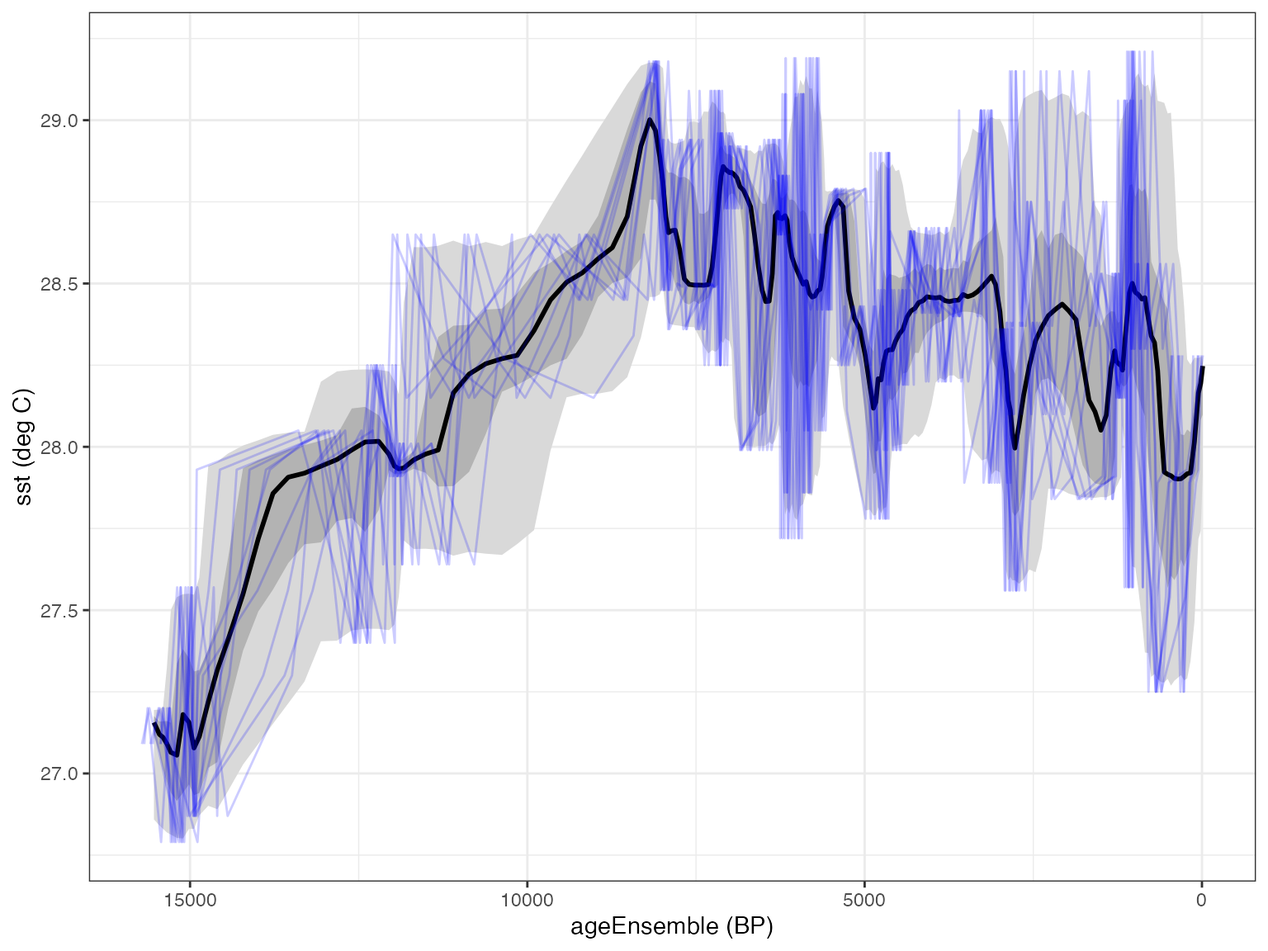
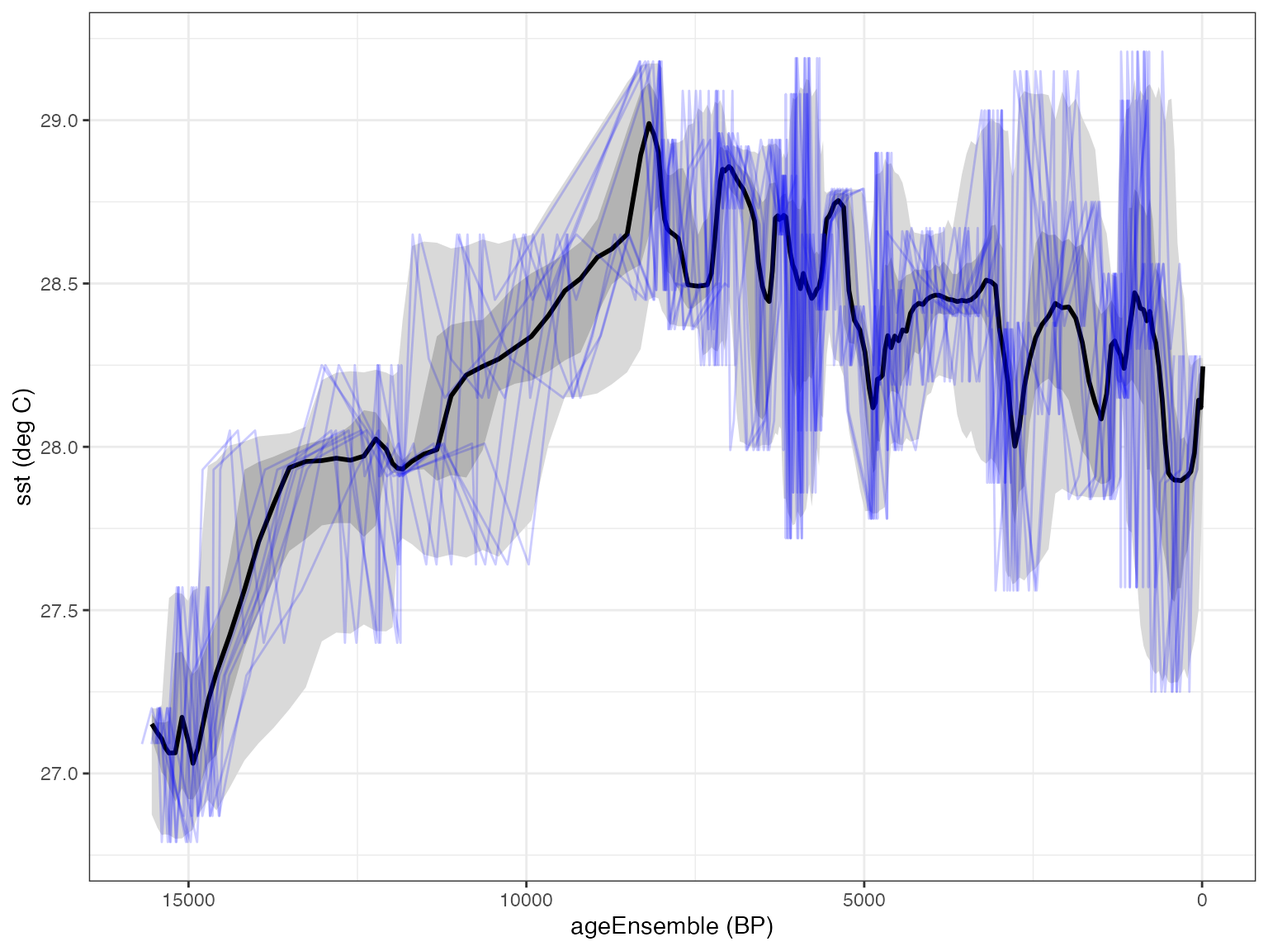
Deploying to gh-pages from @ nickmckay/GeoChronR@2f822da00a6c9b9ce1c974c1294a54782f8ac86b 🚀

Changed region(s): [[0.0938, 0.0312, 0.9688, 0.9062], [0.125, 0.9375, 0.1875, 0.9688], [0.4062, 0.9375, 0.4375, 0.9688]]

diff --git a/articles/oxCal.html b/articles/oxCal.html
@@ -121,7 +121,7 @@
       <h1 data-toc-skip>Intro to OxCal in geoChronR</h1>
                         <h4 data-toc-skip class="author">Nick McKay</h4>
             
-            <h4 data-toc-skip class="date">2024-09-10</h4>
+            <h4 data-toc-skip class="date">2024-09-11</h4>
       
       <small class="dont-index">Source: <a href="https://github.com/nickmckay/GeoChronR/blob/master/vignettes/oxCal.Rmd" class="external-link"><code>vignettes/oxCal.Rmd</code></a></small>
       <div class="hidden name"><code>oxCal.Rmd</code></div>
@@ -156,7 +156,7 @@ will tell you.</p>
 <p>OK, let’s get a LiPD file from the LinkedEarth Wiki:</p>
 <div class="sourceCode" id="cb3"><pre class="downlit sourceCode r">
 <code class="sourceCode R"><span><span class="va">L</span> <span class="op">&lt;-</span> <span class="fu"><a href="https://rdrr.io/pkg/lipdR/man/readLipd.html" class="external-link">readLipd</a></span><span class="op">(</span><span class="st">"https://lipdverse.org/geoChronR-examples/BJ8-03-70GGC.Linsley.2010.lpd"</span><span class="op">)</span></span>
-<span><span class="co">#&gt; [1] "Loading 1 datasets from /var/folders/py/lcjn3y352g1106vf1rqk521r0000gn/T//RtmpDuEjXe/BJ8-03-70GGC.Linsley.2010.lpd..."</span></span>
+<span><span class="co">#&gt; [1] "Loading 1 datasets from /var/folders/py/lcjn3y352g1106vf1rqk521r0000gn/T//Rtmp33LPOE/BJ8-03-70GGC.Linsley.2010.lpd..."</span></span>
 <span><span class="co">#&gt; [1] "reading: BJ8-03-70GGC.Linsley.2010.lpd"</span></span></code></pre></div>
 <p>Now we can run it through oxcal. First, we specify our oxcal path,
 then use the <code>runOxcal</code> function. Like the other
@@ -235,7 +235,7 @@ multiple hours).</p>
 <span><span class="co"><span style="color: #00BB00; font-weight: bold;">#&gt;  Find later with getLastVarString()</span></span></span>
 <span><span class="co"><span style="color: #00BB00; font-weight: bold;">#&gt; </span><span style="color: #00BB00;">lab.id.var = 'id', age.14c.var = 'age14c', age.14c.uncertainty.var = 'age14cuncertainty', age.var = 'calendarage', age.uncertainty.var = 'calendarageuncertainty', depth.var = 'depth', reservoir.age.14c.var = NULL, reservoir.age.14c.uncertainty.var = NULL, rejected.ages.var = NULL, </span></span></span>
 <span><span class="co"><span style="color: #00BB00;">#&gt; </span><span style="color: #0000BB;">Oxcal is now running, depending on your settings and your computer, this may take a few minutes to several hours. The model is complete when a table of model diagnostics appears.</span></span></span>
-<span><span class="co"><span style="color: #0000BB;">#&gt; </span>[1] "OxCal v4.4.4 Bronk Ramsey (2021); r:5\nAtmospheric data from Reimer et al (2020)\n405.5\n400\n393.5\n390\n380\n370\n361.5\n360\n350\n340\n330\n320.5\n320\n310\n300\n290\n280\n270\n260\n250\n241.5\n240\n230\n220\n210\n201.5\n200\n190\n180\n176\n170\n160\n150\n140\n130\n120\n110\n104\n100\n90\n80\n70\n63.5\n60\n50\n40\n30\n20\n10\n0\nWarning! Duplicate names - Atmospheric\nWarning! Duplicate names - Atmospheric\nWarning! Duplicate names - Atmospheric\nBoundary()\nAtmospheric Curve(IntCal20.14c)\nAtmospheric data from Reimer et al (2020)\nOS-45436 R_Date(12900,45)\n  68.3% probability\n    13563BC (68.3%) 13372BC\n  95.4% probability\n    13644BC (95.4%) 13310BC\nD \nAtmospheric Curve(IntCal20.14c)\nAtmospheric data from Reimer et al (2020)\nOS-65581 R_Date(12550,50)\n  68.3% probability\n    13106BC (59.4%) 12886BC\n    12728BC ( 8.9%) 12677BC\n  95.4% probability\n    13180BC (71.0%) 12847BC\n    12774BC (24.5%) 12560BC\nD \nD \nD \nAtmospheric Curve(IntCal20.14c)\nAtmospheric data from Reimer et al (2020)\nOS-60748 R_Date(10250,40)\n  68.3% probability\n    10049BC (58.3%) 9922BC\n    9912BC ( 9.9%) 9884BC\n  95.4% probability\n    10480BC ( 2.0%) 10450BC\n    10217BC ( 0.4%) 10206BC\n    10192BC ( 0.6%) 10176BC\n    10154BC (91.3%) 9864BC\n    9832BC ( 1.0%) 9811BC\nD \nD \nD \nD \nAtmospheric Curve(IntCal20.14c)\nAtmospheric data from Reimer et al (2020)\nOS-60737 R_Date(7190,45)\n  68.3% probability\n    6076BC (68.3%) 6010BC\n  95.4% probability\n    6217BC (10.2%) 6139BC\n    6096BC (83.9%) 5982BC\n    5940BC ( 1.3%) 5928BC\nD \nD \nD \nD \nAtmospheric Curve(IntCal20.14c)\nAtmospheric data from Reimer et al (2020)\nOS-54154 R_Date(6160,60)\n  68.3% probability\n    5208BC (68.3%) 5040BC\n  95.4% probability\n    5298BC ( 4.5%) 5258BC\n    5221BC (91.0%) 4941BC\nD \nD \nD \nAtmospheric Curve(IntCal20.14c)\nAtmospheric data from Reimer et al (2020)\nOS-60750 R_Date(5410,35)\n  68.3% probability\n    4330BC (68.3%) 4249BC\n  95.4% probability\n    4346BC (85.2%) 4228BC\n    4196BC ( 7.7%) 4166BC\n    4094BC ( 2.5%) 4070BC\nD \nD \nD \nD \nAtmospheric Curve(IntCal20.14c)\nAtmospheric data from Reimer et al (2020)\nOS-60747 R_Date(4850,40)\n  68.3% probability\n    3700BC ( 8.2%) 3684BC\n    3655BC (37.1%) 3626BC\n    3562BC (23.0%) 3533BC\n  95.4% probability\n    3708BC (14.5%) 3670BC\n    3660BC (81.0%) 3527BC\nD \nD \nD \nAtmospheric Curve(IntCal20.14c)\nAtmospheric data from Reimer et al (2020)\nOS-54153 R_Date(4240,50)\n  68.3% probability\n    2910BC (35.2%) 2861BC\n    2805BC (26.1%) 2754BC\n    2720BC ( 7.0%) 2703BC\n  95.4% probability\n    3004BC ( 0.8%) 2992BC\n    2928BC (43.7%) 2831BC\n    2822BC (49.6%) 2662BC\n    2652BC ( 1.4%) 2632BC\nD \nD \nD \nD \nD \nD \nD \nAtmospheric Curve(IntCal20.14c)\nAtmospheric data from Reimer et al (2020)\nOS-54152 R_Date(2750,50)\n  68.3% probability\n    964BC ( 1.5%) 961BC\n    930BC (66.8%) 826BC\n  95.4% probability\n    1006BC (95.4%) 810BC\nD \nD \nD \nD \nAtmospheric Curve(IntCal20.14c)\nAtmospheric data from Reimer et al (2020)\nOS-45435 R_Date(1310,30)\n  68.3% probability\n    664AD (29.2%) 689AD\n    698AD ( 3.2%) 701AD\n    742AD (35.9%) 772AD\n  95.4% probability\n    656AD (95.4%) 774AD\nD \nD \nD \nD \nD \nD \nsurface C_Date(1950,25)\n  68.3% probability\n    1923AD (68.3%) 1976AD\n  95.4% probability\n    1900AD (95.4%) 2000AD\nBoundary()\nMCMC_Sample()\n( P_Sequence \nP_Sequence(0.1)\n) P_Sequence \nWarning! No outlier model specified - use Outlier_Model()\nWarning! No outlier model specified - use Outlier_Model()\nWarning! No outlier model specified - use Outlier_Model()\nWarning! No outlier model specified - use Outlier_Model()\nWarning! No outlier model specified - use Outlier_Model()\nWarning! No outlier model specified - use Outlier_Model()\nWarning! No outlier model specified - use Outlier_Model()\nWarning! No outlier model specified - use Outlier_Model()\nWarning! No outlier model specified - use Outlier_Model()\nWarning! No outlier model specified - use Outlier_Model()\nWarning! No outlier model specified - use Outlier_Model()\nPosterior \n( MCMC(30000)\nOverall agreement 101.8%\nDynamic agreement 101.9%\nPosterior \n  68.3% probability\n    13540BC (68.3%) 13351BC\n  95.4% probability\n    13638BC (95.4%) 13294BC\nOS-45436 Posterior \n  68.3% probability\n    13540BC (68.3%) 13351BC\n  95.4% probability\n    13638BC (95.4%) 13294BC\n Agreement 100.2%\nD Posterior \n  68.3% probability\n    13450BC (68.3%) 13038BC\n  95.4% probability\n    13588BC (92.7%) 12852BC\n    12812BC ( 2.8%) 12716BC\nOS-65581 Posterior \n  68.3% probability\n    13117BC (63.7%) 12884BC\n    12721BC ( 4.6%) 12693BC\n  95.4% probability\n    13186BC (73.7%) 12843BC\n    12776BC (21.8%) 12566BC\n Agreement 102.2%\nD Posterior \n  68.3% probability\n    13106BC (68.3%) 12504BC\n  95.4% probability\n    13180BC (95.4%) 11516BC\nD Posterior \n  68.3% probability\n    12626BC (68.1%) 11064BC\n    11054BC ( 0.2%) 11049BC\n  95.4% probability\n    12940BC (95.4%) 10367BC\nD Posterior \n  68.3% probability\n    11087BC ( 0.1%) 11085BC\n    11054BC (68.2%) 9951BC\n  95.4% probability\n    12096BC (95.4%) 9893BC\nOS-60748 Posterior \n  68.3% probability\n    10050BC (68.3%) 9884BC\n  95.4% probability\n    10481BC ( 2.3%) 10448BC\n    10368BC ( 0.1%) 10364BC\n    10299BC ( 0.2%) 10292BC\n    10221BC ( 1.8%) 10170BC\n    10155BC (89.7%) 9860BC\n    9836BC ( 1.4%) 9808BC\n Agreement  99.3%\nD Posterior \n  68.3% probability\n    10098BC (68.3%) 9802BC\n  95.4% probability\n    10496BC ( 2.4%) 10396BC\n    10384BC ( 0.5%) 10348BC\n    10316BC ( 0.6%) 10275BC\n    10246BC (91.8%) 9012BC\n    9006BC ( 0.2%) 8986BC\nD Posterior \n  68.3% probability\n    9950BC (67.7%) 8482BC\n    8476BC ( 0.3%) 8466BC\n    8428BC ( 0.3%) 8420BC\n  95.4% probability\n    10066BC (95.3%) 7231BC\n    7225BC ( 0.1%) 7213BC\nD Posterior \n  68.3% probability\n    8828BC ( 0.1%) 8824BC\n    8810BC ( 0.1%) 8805BC\n    8800BC (67.9%) 6898BC\n    6890BC ( 0.1%) 6886BC\n  95.4% probability\n    9559BC ( 0.1%) 9550BC\n    9544BC (95.3%) 6342BC\nD Posterior \n  68.3% probability\n    7240BC (68.3%) 6040BC\n  95.4% probability\n    8501BC (95.4%) 6006BC\nOS-60737 Posterior \n  68.3% probability\n    6080BC (68.3%) 6000BC\n  95.4% probability\n    6220BC (15.2%) 6125BC\n    6106BC (80.2%) 5982BC\n Agreement  98.4%\nD Posterior \n  68.3% probability\n    6082BC (68.3%) 5988BC\n  95.4% probability\n    6221BC (95.4%) 5906BC\nD Posterior \n  68.3% probability\n    6046BC (68.3%) 5690BC\n  95.4% probability\n    6142BC (95.4%) 5395BC\nD Posterior \n  68.3% probability\n    5812BC (68.3%) 5338BC\n  95.4% probability\n    5986BC (95.4%) 5167BC\nD Posterior \n  68.3% probability\n    5476BC (68.3%) 5101BC\n  95.4% probability\n    5756BC (95.4%) 5009BC\nOS-54154 Posterior \n  68.3% probability\n    5208BC (68.3%) 5041BC\n  95.4% probability\n    5298BC ( 4.4%) 5256BC\n    5224BC (91.0%) 4942BC\n Agreement 101.3%\nD Posterior \n  68.3% probability\n    5111BC (68.3%) 4761BC\n  95.4% probability\n    5200BC (95.4%) 4512BC\nD Posterior \n  68.3% probability\n    4870BC (68.3%) 4446BC\n  95.4% probability\n    5051BC (95.4%) 4316BC\nD Posterior \n  68.3% probability\n    4548BC (68.3%) 4265BC\n  95.4% probability\n    4830BC (95.4%) 4184BC\nOS-60750 Posterior \n  68.3% probability\n    4330BC (68.3%) 4250BC\n  95.4% probability\n    4350BC (87.6%) 4224BC\n    4198BC ( 6.5%) 4166BC\n    4094BC ( 1.4%) 4074BC\n Agreement 103.0%\nD Posterior \n  68.3% probability\n    4332BC (68.3%) 4234BC\n  95.4% probability\n    4346BC (95.4%) 4056BC\nD Posterior \n  68.3% probability\n    4270BC (68.3%) 3989BC\n  95.4% probability\n    4316BC (95.4%) 3794BC\nD Posterior \n  68.3% probability\n    4072BC (68.3%) 3738BC\n  95.4% probability\n    4218BC (95.4%) 3632BC\nD Posterior \n  68.3% probability\n    3825BC (68.3%) 3574BC\n  95.4% probability\n    4028BC (95.4%) 3538BC\nOS-60747 Posterior \n  68.3% probability\n    3654BC (34.5%) 3626BC\n    3576BC (33.8%) 3532BC\n  95.4% probability\n    3708BC (95.4%) 3524BC\n Agreement  98.2%\nD Posterior \n  68.3% probability\n    3694BC ( 1.8%) 3686BC\n    3655BC (66.5%) 3518BC\n  95.4% probability\n    3714BC (95.4%) 3262BC\nD Posterior \n  68.3% probability\n    3534BC (68.3%) 3066BC\n  95.4% probability\n    3635BC (95.4%) 2862BC\nD Posterior \n  68.3% probability\n    3038BC (68.3%) 2754BC\n  95.4% probability\n    3331BC (95.4%) 2672BC\nOS-54153 Posterior \n  68.3% probability\n    2912BC (39.3%) 2859BC\n    2805BC (24.9%) 2756BC\n    2717BC ( 4.1%) 2706BC\n  95.4% probability\n    3008BC ( 1.5%) 2985BC\n    2932BC (93.0%) 2662BC\n    2650BC ( 1.0%) 2634BC\n Agreement 102.2%\nD Posterior \n  68.3% probability\n    2897BC (68.3%) 2600BC\n  95.4% probability\n    2954BC (95.4%) 2198BC\nD Posterior \n  68.3% probability\n    2760BC (68.3%) 2214BC\n  95.4% probability\n    2876BC (95.4%) 1808BC\nD Posterior \n  68.3% probability\n    2530BC (68.3%) 1847BC\n  95.4% probability\n    2732BC (95.4%) 1476BC\nD Posterior \n  68.3% probability\n    2220BC (68.3%) 1496BC\n  95.4% probability\n    2517BC (95.4%) 1206BC\nD Posterior \n  68.3% probability\n    1866BC (68.3%) 1186BC\n  95.4% probability\n    2241BC (95.4%) 1000BC\nD Posterior \n  68.3% probability\n    1490BC (68.3%) 957BC\n  95.4% probability\n    1912BC (95.4%) 866BC\nD Posterior \n  68.3% probability\n    1108BC (68.3%) 839BC\n  95.4% probability\n    1498BC (95.4%) 810BC\nOS-54152 Posterior \n  68.3% probability\n    931BC (68.3%) 821BC\n  95.4% probability\n    1011BC (95.4%) 805BC\n Agreement 101.6%\nD Posterior \n  68.3% probability\n    972BC (68.3%) 689BC\n  95.4% probability\n    1024BC (95.4%) 205BC\nD Posterior \n  68.3% probability\n    814BC (68.3%) 112BC\n  95.4% probability\n    904BC (95.4%) 350AD\nD Posterior \n  68.3% probability\n    232BC (68.3%) 525AD\n  95.4% probability\n    616BC (95.4%) 672AD\nD Posterior \n  68.3% probability\n    384AD (68.3%) 760AD\n  95.4% probability\n    141BC (95.4%) 774AD\nOS-45435 Posterior \n  68.3% probability\n    662AD (38.6%) 700AD\n    742AD (29.6%) 770AD\n  95.4% probability\n    654AD (95.4%) 774AD\n Agreement  98.9%\nD Posterior \n  68.3% probability\n    664AD (68.3%) 796AD\n  95.4% probability\n    650AD (95.4%) 1042AD\nD Posterior \n  68.3% probability\n    736AD (68.3%) 1084AD\n  95.4% probability\n    678AD (95.4%) 1365AD\nD Posterior \n  68.3% probability\n    893AD (68.3%) 1358AD\n  95.4% probability\n    770AD (95.4%) 1611AD\nD Posterior \n  68.3% probability\n    1132AD (68.3%) 1624AD\n  95.4% probability\n    926AD (95.4%) 1800AD\nD Posterior \n  68.3% probability\n    1410AD (68.3%) 1842AD\n  95.4% probability\n    1136AD (95.4%) 1927AD\nD Posterior \n  68.3% probability\n    1690AD (68.3%) 1958AD\n  95.4% probability\n    1386AD (95.4%) 1989AD\nsurface Posterior \n  68.3% probability\n    1924AD (68.3%) 1977AD\n  95.4% probability\n    1894AD (95.4%) 2008AD\n Agreement 100.7%\nPosterior \n  68.3% probability\n    1924AD (68.3%) 1977AD\n  95.4% probability\n    1894AD (95.4%) 2008AD\n) MCMC(2016000)\n"</span></span>
+<span><span class="co"><span style="color: #0000BB;">#&gt; </span>[1] "OxCal v4.4.4 Bronk Ramsey (2021); r:5\nAtmospheric data from Reimer et al (2020)\n405.5\n400\n393.5\n390\n380\n370\n361.5\n360\n350\n340\n330\n320.5\n320\n310\n300\n290\n280\n270\n260\n250\n241.5\n240\n230\n220\n210\n201.5\n200\n190\n180\n176\n170\n160\n150\n140\n130\n120\n110\n104\n100\n90\n80\n70\n63.5\n60\n50\n40\n30\n20\n10\n0\nWarning! Duplicate names - Atmospheric\nWarning! Duplicate names - Atmospheric\nWarning! Duplicate names - Atmospheric\nBoundary()\nAtmospheric Curve(IntCal20.14c)\nAtmospheric data from Reimer et al (2020)\nOS-45436 R_Date(12900,45)\n  68.3% probability\n    13563BC (68.3%) 13372BC\n  95.4% probability\n    13644BC (95.4%) 13310BC\nD \nAtmospheric Curve(IntCal20.14c)\nAtmospheric data from Reimer et al (2020)\nOS-65581 R_Date(12550,50)\n  68.3% probability\n    13106BC (59.4%) 12886BC\n    12728BC ( 8.9%) 12677BC\n  95.4% probability\n    13180BC (71.0%) 12847BC\n    12774BC (24.5%) 12560BC\nD \nD \nD \nAtmospheric Curve(IntCal20.14c)\nAtmospheric data from Reimer et al (2020)\nOS-60748 R_Date(10250,40)\n  68.3% probability\n    10049BC (58.3%) 9922BC\n    9912BC ( 9.9%) 9884BC\n  95.4% probability\n    10480BC ( 2.0%) 10450BC\n    10217BC ( 0.4%) 10206BC\n    10192BC ( 0.6%) 10176BC\n    10154BC (91.3%) 9864BC\n    9832BC ( 1.0%) 9811BC\nD \nD \nD \nD \nAtmospheric Curve(IntCal20.14c)\nAtmospheric data from Reimer et al (2020)\nOS-60737 R_Date(7190,45)\n  68.3% probability\n    6076BC (68.3%) 6010BC\n  95.4% probability\n    6217BC (10.2%) 6139BC\n    6096BC (83.9%) 5982BC\n    5940BC ( 1.3%) 5928BC\nD \nD \nD \nD \nAtmospheric Curve(IntCal20.14c)\nAtmospheric data from Reimer et al (2020)\nOS-54154 R_Date(6160,60)\n  68.3% probability\n    5208BC (68.3%) 5040BC\n  95.4% probability\n    5298BC ( 4.5%) 5258BC\n    5221BC (91.0%) 4941BC\nD \nD \nD \nAtmospheric Curve(IntCal20.14c)\nAtmospheric data from Reimer et al (2020)\nOS-60750 R_Date(5410,35)\n  68.3% probability\n    4330BC (68.3%) 4249BC\n  95.4% probability\n    4346BC (85.2%) 4228BC\n    4196BC ( 7.7%) 4166BC\n    4094BC ( 2.5%) 4070BC\nD \nD \nD \nD \nAtmospheric Curve(IntCal20.14c)\nAtmospheric data from Reimer et al (2020)\nOS-60747 R_Date(4850,40)\n  68.3% probability\n    3700BC ( 8.2%) 3684BC\n    3655BC (37.1%) 3626BC\n    3562BC (23.0%) 3533BC\n  95.4% probability\n    3708BC (14.5%) 3670BC\n    3660BC (81.0%) 3527BC\nD \nD \nD \nAtmospheric Curve(IntCal20.14c)\nAtmospheric data from Reimer et al (2020)\nOS-54153 R_Date(4240,50)\n  68.3% probability\n    2910BC (35.2%) 2861BC\n    2805BC (26.1%) 2754BC\n    2720BC ( 7.0%) 2703BC\n  95.4% probability\n    3004BC ( 0.8%) 2992BC\n    2928BC (43.7%) 2831BC\n    2822BC (49.6%) 2662BC\n    2652BC ( 1.4%) 2632BC\nD \nD \nD \nD \nD \nD \nD \nAtmospheric Curve(IntCal20.14c)\nAtmospheric data from Reimer et al (2020)\nOS-54152 R_Date(2750,50)\n  68.3% probability\n    964BC ( 1.5%) 961BC\n    930BC (66.8%) 826BC\n  95.4% probability\n    1006BC (95.4%) 810BC\nD \nD \nD \nD \nAtmospheric Curve(IntCal20.14c)\nAtmospheric data from Reimer et al (2020)\nOS-45435 R_Date(1310,30)\n  68.3% probability\n    664AD (29.2%) 689AD\n    698AD ( 3.2%) 701AD\n    742AD (35.9%) 772AD\n  95.4% probability\n    656AD (95.4%) 774AD\nD \nD \nD \nD \nD \nD \nsurface C_Date(1950,25)\n  68.3% probability\n    1923AD (68.3%) 1976AD\n  95.4% probability\n    1900AD (95.4%) 2000AD\nBoundary()\nMCMC_Sample()\n( P_Sequence \nP_Sequence(0.1)\n) P_Sequence \nWarning! No outlier model specified - use Outlier_Model()\nWarning! No outlier model specified - use Outlier_Model()\nWarning! No outlier model specified - use Outlier_Model()\nWarning! No outlier model specified - use Outlier_Model()\nWarning! No outlier model specified - use Outlier_Model()\nWarning! No outlier model specified - use Outlier_Model()\nWarning! No outlier model specified - use Outlier_Model()\nWarning! No outlier model specified - use Outlier_Model()\nWarning! No outlier model specified - use Outlier_Model()\nWarning! No outlier model specified - use Outlier_Model()\nWarning! No outlier model specified - use Outlier_Model()\nPosterior \n( MCMC(30000)\nOverall agreement 101.5%\nDynamic agreement 101.6%\nPosterior \n  68.3% probability\n    13541BC (68.3%) 13352BC\n  95.4% probability\n    13640BC (95.4%) 13292BC\nOS-45436 Posterior \n  68.3% probability\n    13541BC (68.3%) 13352BC\n  95.4% probability\n    13640BC (95.4%) 13292BC\n Agreement 100.0%\nD Posterior \n  68.3% probability\n    13452BC (68.3%) 13038BC\n  95.4% probability\n    13591BC (92.7%) 12849BC\n    12802BC ( 2.8%) 12712BC\nOS-65581 Posterior \n  68.3% probability\n    13118BC (63.6%) 12884BC\n    12721BC ( 4.7%) 12692BC\n  95.4% probability\n    13188BC (73.4%) 12843BC\n    12776BC (22.0%) 12566BC\n Agreement 101.8%\nD Posterior \n  68.3% probability\n    13101BC (68.3%) 12496BC\n  95.4% probability\n    13186BC (95.4%) 11522BC\nD Posterior \n  68.3% probability\n    12630BC (67.8%) 11092BC\n    11074BC ( 0.5%) 11062BC\n  95.4% probability\n    12934BC (95.4%) 10356BC\nD Posterior \n  68.3% probability\n    11050BC (68.3%) 9952BC\n  95.4% probability\n    12098BC (95.4%) 9892BC\nOS-60748 Posterior \n  68.3% probability\n    10049BC (58.5%) 9921BC\n    9912BC ( 9.8%) 9884BC\n  95.4% probability\n    10480BC ( 1.8%) 10450BC\n    10368BC ( 0.2%) 10364BC\n    10219BC ( 1.7%) 10172BC\n    10154BC (90.5%) 9861BC\n    9836BC ( 1.3%) 9808BC\n Agreement 100.0%\nD Posterior \n  68.3% probability\n    10096BC (68.3%) 9807BC\n  95.4% probability\n    10488BC ( 1.8%) 10395BC\n    10378BC ( 0.5%) 10346BC\n    10310BC ( 0.4%) 10275BC\n    10244BC (92.8%) 9012BC\nD Posterior \n  68.3% probability\n    9946BC (68.3%) 8482BC\n  95.4% probability\n    10065BC (95.4%) 7225BC\nD Posterior \n  68.3% probability\n    8824BC ( 0.2%) 8818BC\n    8814BC (68.1%) 6896BC\n  95.4% probability\n    9542BC (95.4%) 6338BC\nD Posterior \n  68.3% probability\n    7252BC ( 0.3%) 7244BC\n    7236BC (68.0%) 6038BC\n  95.4% probability\n    8489BC (95.4%) 6005BC\nOS-60737 Posterior \n  68.3% probability\n    6080BC (68.3%) 6002BC\n  95.4% probability\n    6220BC (15.2%) 6124BC\n    6101BC (79.6%) 5982BC\n    5938BC ( 0.6%) 5930BC\n Agreement  97.6%\nD Posterior \n  68.3% probability\n    6082BC (68.3%) 5986BC\n  95.4% probability\n    6221BC (95.4%) 5888BC\nD Posterior \n  68.3% probability\n    6046BC (68.3%) 5687BC\n  95.4% probability\n    6142BC (95.4%) 5391BC\nD Posterior \n  68.3% probability\n    5812BC (68.3%) 5339BC\n  95.4% probability\n    5985BC (95.4%) 5164BC\nD Posterior \n  68.3% probability\n    5474BC (68.3%) 5100BC\n  95.4% probability\n    5756BC (95.4%) 5008BC\nOS-54154 Posterior \n  68.3% probability\n    5208BC (68.3%) 5041BC\n  95.4% probability\n    5298BC ( 4.4%) 5256BC\n    5224BC (91.0%) 4942BC\n Agreement 101.3%\nD Posterior \n  68.3% probability\n    5114BC (68.3%) 4760BC\n  95.4% probability\n    5200BC (95.4%) 4510BC\nD Posterior \n  68.3% probability\n    4870BC (68.3%) 4446BC\n  95.4% probability\n    5051BC (95.4%) 4316BC\nD Posterior \n  68.3% probability\n    4548BC (68.3%) 4266BC\n  95.4% probability\n    4830BC (95.4%) 4183BC\nOS-60750 Posterior \n  68.3% probability\n    4330BC (68.3%) 4251BC\n  95.4% probability\n    4350BC (86.8%) 4224BC\n    4200BC ( 6.9%) 4164BC\n    4122BC ( 0.2%) 4118BC\n    4094BC ( 1.5%) 4072BC\n Agreement 102.6%\nD Posterior \n  68.3% probability\n    4332BC (68.3%) 4236BC\n  95.4% probability\n    4346BC (95.4%) 4060BC\nD Posterior \n  68.3% probability\n    4271BC (68.3%) 3990BC\n  95.4% probability\n    4317BC (95.4%) 3796BC\nD Posterior \n  68.3% probability\n    4072BC (68.3%) 3738BC\n  95.4% probability\n    4218BC (95.4%) 3634BC\nD Posterior \n  68.3% probability\n    3826BC (68.3%) 3575BC\n  95.4% probability\n    4028BC (95.4%) 3538BC\nOS-60747 Posterior \n  68.3% probability\n    3696BC ( 2.2%) 3691BC\n    3654BC (34.0%) 3626BC\n    3576BC (32.0%) 3532BC\n  95.4% probability\n    3708BC (95.4%) 3525BC\n Agreement  98.3%\nD Posterior \n  68.3% probability\n    3696BC ( 3.3%) 3684BC\n    3655BC (31.6%) 3600BC\n    3586BC (33.4%) 3521BC\n  95.4% probability\n    3749BC ( 0.2%) 3740BC\n    3714BC (95.2%) 3277BC\nD Posterior \n  68.3% probability\n    3538BC (68.3%) 3072BC\n  95.4% probability\n    3636BC (95.4%) 2866BC\nD Posterior \n  68.3% probability\n    3037BC (68.3%) 2755BC\n  95.4% probability\n    3336BC (95.4%) 2672BC\nOS-54153 Posterior \n  68.3% probability\n    2912BC (39.6%) 2858BC\n    2805BC (24.2%) 2757BC\n    2718BC ( 4.4%) 2706BC\n  95.4% probability\n    3008BC ( 1.6%) 2984BC\n    2935BC (92.9%) 2662BC\n    2650BC ( 1.0%) 2634BC\n Agreement 102.4%\nD Posterior \n  68.3% probability\n    2898BC (68.3%) 2600BC\n  95.4% probability\n    2958BC (95.4%) 2196BC\nD Posterior \n  68.3% probability\n    2762BC (68.3%) 2218BC\n  95.4% probability\n    2876BC (95.4%) 1803BC\nD Posterior \n  68.3% probability\n    2528BC (68.3%) 1844BC\n  95.4% probability\n    2730BC (95.4%) 1473BC\nD Posterior \n  68.3% probability\n    2221BC (68.3%) 1500BC\n  95.4% probability\n    2517BC (95.4%) 1206BC\nD Posterior \n  68.3% probability\n    1865BC (68.3%) 1188BC\n  95.4% probability\n    2239BC (95.4%) 996BC\nD Posterior \n  68.3% probability\n    1486BC (68.3%) 956BC\n  95.4% probability\n    1908BC (95.4%) 867BC\nD Posterior \n  68.3% probability\n    1107BC (68.3%) 839BC\n  95.4% probability\n    1488BC (95.4%) 810BC\nOS-54152 Posterior \n  68.3% probability\n    930BC (68.3%) 820BC\n  95.4% probability\n    1010BC (95.4%) 806BC\n Agreement 101.8%\nD Posterior \n  68.3% probability\n    972BC (68.3%) 691BC\n  95.4% probability\n    1036BC ( 0.1%) 1031BC\n    1020BC (95.4%) 205BC\nD Posterior \n  68.3% probability\n    812BC (67.8%) 122BC\n    117BC ( 0.5%) 111BC\n  95.4% probability\n    906BC (95.4%) 346AD\nD Posterior \n  68.3% probability\n    232BC (68.3%) 526AD\n  95.4% probability\n    615BC (95.4%) 672AD\nD Posterior \n  68.3% probability\n    386AD (68.3%) 760AD\n  95.4% probability\n    142BC (95.4%) 773AD\nOS-45435 Posterior \n  68.3% probability\n    662AD (39.0%) 700AD\n    742AD (29.3%) 770AD\n  95.4% probability\n    653AD (95.4%) 774AD\n Agreement  98.6%\nD Posterior \n  68.3% probability\n    664AD (68.3%) 798AD\n  95.4% probability\n    650AD (95.4%) 1058AD\nD Posterior \n  68.3% probability\n    736AD (68.3%) 1084AD\n  95.4% probability\n    677AD (95.4%) 1370AD\nD Posterior \n  68.3% probability\n    894AD (68.3%) 1358AD\n  95.4% probability\n    770AD (95.4%) 1611AD\nD Posterior \n  68.3% probability\n    1132AD (68.3%) 1624AD\n  95.4% probability\n    926AD (95.4%) 1801AD\nD Posterior \n  68.3% probability\n    1411AD (68.3%) 1841AD\n  95.4% probability\n    1136AD (95.4%) 1928AD\nD Posterior \n  68.3% probability\n    1690AD (68.3%) 1958AD\n  95.4% probability\n    1386AD (95.4%) 1988AD\nsurface Posterior \n  68.3% probability\n    1924AD (68.3%) 1977AD\n  95.4% probability\n    1893AD (95.4%) 2008AD\n Agreement 100.5%\nPosterior \n  68.3% probability\n    1924AD (68.3%) 1977AD\n  95.4% probability\n    1893AD (95.4%) 2008AD\n) MCMC(4992000)\n"</span></span>
 <span><span class="co">#&gt; <span style="color: #BB0000; font-weight: bold;">It looks like youre MCMC_Sample parameters aren't large enough.</span></span></span></code></pre></div>
 <p>Great. After OxCal finishes running successfully, it will return this
 table showing some diagnostics of the MCMC statistics for the dated

diff --git a/articles/Introduction.html b/articles/Introduction.html
@@ -121,7 +121,7 @@
       <h1 data-toc-skip>Introduction to geoChronR</h1>
                         <h4 data-toc-skip class="author">Nick McKay</h4>
             
-            <h4 data-toc-skip class="date">2024-09-10</h4>
+            <h4 data-toc-skip class="date">2024-09-11</h4>
       
       <small class="dont-index">Source: <a href="https://github.com/nickmckay/GeoChronR/blob/master/vignettes/Introduction.Rmd" class="external-link"><code>vignettes/Introduction.Rmd</code></a></small>
       <div class="hidden name"><code>Introduction.Rmd</code></div>
@@ -167,7 +167,7 @@ directory), or enter the path to file or the directory that you want:
 <code>L &lt;- readLipd("~/Downloads/my.lpd")</code></p>
 <div class="sourceCode" id="cb2"><pre class="downlit sourceCode r">
 <code class="sourceCode R"><span>  <span class="va">hulu</span> <span class="op">&lt;-</span> <span class="fu">lipdR</span><span class="fu">::</span><span class="fu"><a href="https://rdrr.io/pkg/lipdR/man/readLipd.html" class="external-link">readLipd</a></span><span class="op">(</span><span class="st">"http://lipdverse.org/geoChronR-examples/Hulucave.Wang.2001.lpd"</span><span class="op">)</span></span></code></pre></div>
-<pre><code><span><span class="co">## [1] "Loading 1 datasets from /var/folders/py/lcjn3y352g1106vf1rqk521r0000gn/T//RtmpSPM46r/Hulucave.Wang.2001.lpd..."</span></span>
+<pre><code><span><span class="co">## [1] "Loading 1 datasets from /var/folders/py/lcjn3y352g1106vf1rqk521r0000gn/T//Rtmp6KNd8v/Hulucave.Wang.2001.lpd..."</span></span>
 <span><span class="co">## [1] "reading: Hulucave.Wang.2001.lpd"</span></span></code></pre>
 <p>Data from five stalagmites are stored in this file. Age model output,
 including ensemble data, can be stored in LiPD files, but we don’t have
@@ -275,7 +275,7 @@ members.</p>
 <p>Let’s compare these data to the GISP2 ice core.</p>
 <div class="sourceCode" id="cb14"><pre class="downlit sourceCode r">
 <code class="sourceCode R"><span>  <span class="va">gisp2</span> <span class="op">&lt;-</span> <span class="fu">lipdR</span><span class="fu">::</span><span class="fu"><a href="https://rdrr.io/pkg/lipdR/man/readLipd.html" class="external-link">readLipd</a></span><span class="op">(</span><span class="st">"http://lipdverse.org/geoChronR-examples/GISP2.Alley.2000.lpd"</span><span class="op">)</span></span></code></pre></div>
-<pre><code><span><span class="co">## [1] "Loading 1 datasets from /var/folders/py/lcjn3y352g1106vf1rqk521r0000gn/T//RtmpSPM46r/GISP2.Alley.2000.lpd..."</span></span>
+<pre><code><span><span class="co">## [1] "Loading 1 datasets from /var/folders/py/lcjn3y352g1106vf1rqk521r0000gn/T//Rtmp6KNd8v/GISP2.Alley.2000.lpd..."</span></span>
 <span><span class="co">## [1] "reading: GISP2.Alley.2000.lpd"</span></span></code></pre>
 </div>
 <div class="section level3">

diff --git a/articles/PCA.html b/articles/PCA.html
@@ -121,7 +121,7 @@
       <h1 data-toc-skip>Ensemble PCA</h1>
                         <h4 data-toc-skip class="author">Nick McKay</h4>
             
-            <h4 data-toc-skip class="date">2024-09-10</h4>
+            <h4 data-toc-skip class="date">2024-09-11</h4>
       
       <small class="dont-index">Source: <a href="https://github.com/nickmckay/GeoChronR/blob/master/vignettes/PCA.Rmd" class="external-link"><code>vignettes/PCA.Rmd</code></a></small>
       <div class="hidden name"><code>PCA.Rmd</code></div>
@@ -158,7 +158,7 @@ analysis. Data are from the <a href="https://www.nature.com/articles/sdata201426
 compilation, which we load here:</p>
 <div class="sourceCode" id="cb2"><pre class="downlit sourceCode r">
 <code class="sourceCode R"><span>  <span class="va">FD</span> <span class="op">&lt;-</span> <span class="fu">lipdR</span><span class="fu">::</span><span class="fu"><a href="https://rdrr.io/pkg/lipdR/man/readLipd.html" class="external-link">readLipd</a></span><span class="op">(</span><span class="st">"http://lipdverse.org/geoChronR-examples/arc2k/Arctic2k.zip"</span><span class="op">)</span> </span></code></pre></div>
-<pre><code><span><span class="co">## [1] "Loading 19 datasets from /var/folders/py/lcjn3y352g1106vf1rqk521r0000gn/T//Rtmp7QpI9r/lpdDownload..."</span></span>
+<pre><code><span><span class="co">## [1] "Loading 19 datasets from /var/folders/py/lcjn3y352g1106vf1rqk521r0000gn/T//Rtmpg7iwEF/lpdDownload..."</span></span>
 <span><span class="co">## [1] "reading: Arc-Agassiz.Vinther.2008.lpd"</span></span>
 <span><span class="co">## [1] "reading: Arc-Austfonna.Isaksson.2005.lpd"</span></span>
 <span><span class="co">## [1] "reading: Arc-CampCentury.Fisher.1969.lpd"</span></span>

diff --git a/articles/regression.html b/articles/regression.html
@@ -121,7 +121,7 @@
       <h1 data-toc-skip>Ensemble regression and calibration-in-time</h1>
                         <h4 data-toc-skip class="author">Nick McKay</h4>
             
-            <h4 data-toc-skip class="date">2024-09-10</h4>
+            <h4 data-toc-skip class="date">2024-09-11</h4>
       
       <small class="dont-index">Source: <a href="https://github.com/nickmckay/GeoChronR/blob/master/vignettes/regression.Rmd" class="external-link"><code>vignettes/regression.Rmd</code></a></small>
       <div class="hidden name"><code>regression.Rmd</code></div>
@@ -164,7 +164,7 @@ example file from the package directory. You’d like just enter the path
 as a string for typical use.</p>
 <div class="sourceCode" id="cb2"><pre class="downlit sourceCode r">
 <code class="sourceCode R"><span><span class="va">K</span> <span class="op">&lt;-</span> <span class="fu">lipdR</span><span class="fu">::</span><span class="fu"><a href="https://rdrr.io/pkg/lipdR/man/readLipd.html" class="external-link">readLipd</a></span><span class="op">(</span><span class="st">"http://lipdverse.org/geoChronR-examples/Kurupa.Boldt.2015.lpd"</span><span class="op">)</span></span></code></pre></div>
-<pre><code><span><span class="co">## [1] "Loading 1 datasets from /var/folders/py/lcjn3y352g1106vf1rqk521r0000gn/T//RtmpxaJi7m/Kurupa.Boldt.2015.lpd..."</span></span>
+<pre><code><span><span class="co">## [1] "Loading 1 datasets from /var/folders/py/lcjn3y352g1106vf1rqk521r0000gn/T//RtmpFm7SaJ/Kurupa.Boldt.2015.lpd..."</span></span>
 <span><span class="co">## [1] "reading: Kurupa.Boldt.2015.lpd"</span></span></code></pre>
 </div>
 <div class="section level3">

diff --git a/articles/AddEnsemble.html b/articles/AddEnsemble.html
@@ -168,7 +168,7 @@ would like to add it to the LiPD object.</p>
 object:</p>
 <div class="sourceCode" id="cb7"><pre class="downlit sourceCode r">
 <code class="sourceCode R"><span><span class="va">K</span> <span class="op">&lt;-</span> <span class="fu"><a href="https://rdrr.io/pkg/lipdR/man/readLipd.html" class="external-link">readLipd</a></span><span class="op">(</span><span class="st">"http://lipdverse.org/geoChronR-examples/Kurupa.Boldt.2015.lpd"</span><span class="op">)</span></span></code></pre></div>
-<pre><code><span><span class="co">## [1] "Loading 1 datasets from /var/folders/py/lcjn3y352g1106vf1rqk521r0000gn/T//RtmpkDhoTf/Kurupa.Boldt.2015.lpd..."</span></span>
+<pre><code><span><span class="co">## [1] "Loading 1 datasets from /var/folders/py/lcjn3y352g1106vf1rqk521r0000gn/T//RtmpQOB6XS/Kurupa.Boldt.2015.lpd..."</span></span>
 <span><span class="co">## [1] "reading: Kurupa.Boldt.2015.lpd"</span></span></code></pre>
 <p>And now let’s open a csv file that has the depth and age ensemble
 data</p>

diff --git a/articles/PlotTimeseriesStack.html b/articles/PlotTimeseriesStack.html
@@ -121,7 +121,7 @@
       <h1 data-toc-skip>Plot a stack of proxy timeseries</h1>
                         <h4 data-toc-skip class="author">Nick McKay</h4>
             
-            <h4 data-toc-skip class="date">2024-09-10</h4>
+            <h4 data-toc-skip class="date">2024-09-11</h4>
       
       <small class="dont-index">Source: <a href="https://github.com/nickmckay/GeoChronR/blob/master/vignettes/PlotTimeseriesStack.Rmd" class="external-link"><code>vignettes/PlotTimeseriesStack.Rmd</code></a></small>
       <div class="hidden name"><code>PlotTimeseriesStack.Rmd</code></div>

diff --git a/articles/correlation.html b/articles/correlation.html
@@ -121,7 +121,7 @@
       <h1 data-toc-skip>Ensemble Correlation</h1>
                         <h4 data-toc-skip class="author">Nick McKay</h4>
             
-            <h4 data-toc-skip class="date">2024-09-10</h4>
+            <h4 data-toc-skip class="date">2024-09-11</h4>
       
       <small class="dont-index">Source: <a href="https://github.com/nickmckay/GeoChronR/blob/master/vignettes/correlation.Rmd" class="external-link"><code>vignettes/correlation.Rmd</code></a></small>
       <div class="hidden name"><code>correlation.Rmd</code></div>

diff --git a/articles/spectral_analysis.html b/articles/spectral_analysis.html
@@ -123,7 +123,7 @@ uncertainties</h1>
                         <h4 data-toc-skip class="author">Julien
 Emile-Geay</h4>
             
-            <h4 data-toc-skip class="date">2024-09-10</h4>
+            <h4 data-toc-skip class="date">2024-09-11</h4>
       
       <small class="dont-index">Source: <a href="https://github.com/nickmckay/GeoChronR/blob/master/vignettes/spectral_analysis.Rmd" class="external-link"><code>vignettes/spectral_analysis.Rmd</code></a></small>
       <div class="hidden name"><code>spectral_analysis.Rmd</code></div>

diff --git a/articles/TsFilteringAndMapping.html b/articles/TsFilteringAndMapping.html
@@ -122,7 +122,7 @@
 objects</h1>
                         <h4 data-toc-skip class="author">Nick McKay</h4>
             
-            <h4 data-toc-skip class="date">2024-09-10</h4>
+            <h4 data-toc-skip class="date">2024-09-11</h4>
       
       <small class="dont-index">Source: <a href="https://github.com/nickmckay/GeoChronR/blob/master/vignettes/TsFilteringAndMapping.Rmd" class="external-link"><code>vignettes/TsFilteringAndMapping.Rmd</code></a></small>
       <div class="hidden name"><code>TsFilteringAndMapping.Rmd</code></div>

diff --git a/articles/tidyIso2k.html b/articles/tidyIso2k.html
@@ -122,7 +122,7 @@
 iso2k</h1>
                         <h4 data-toc-skip class="author">Nick McKay</h4>
             
-            <h4 data-toc-skip class="date">2024-09-10</h4>
+            <h4 data-toc-skip class="date">2024-09-11</h4>
       
       <small class="dont-index">Source: <a href="https://github.com/nickmckay/GeoChronR/blob/master/vignettes/tidyIso2k.Rmd" class="external-link"><code>vignettes/tidyIso2k.Rmd</code></a></small>
       <div class="hidden name"><code>tidyIso2k.Rmd</code></div>
